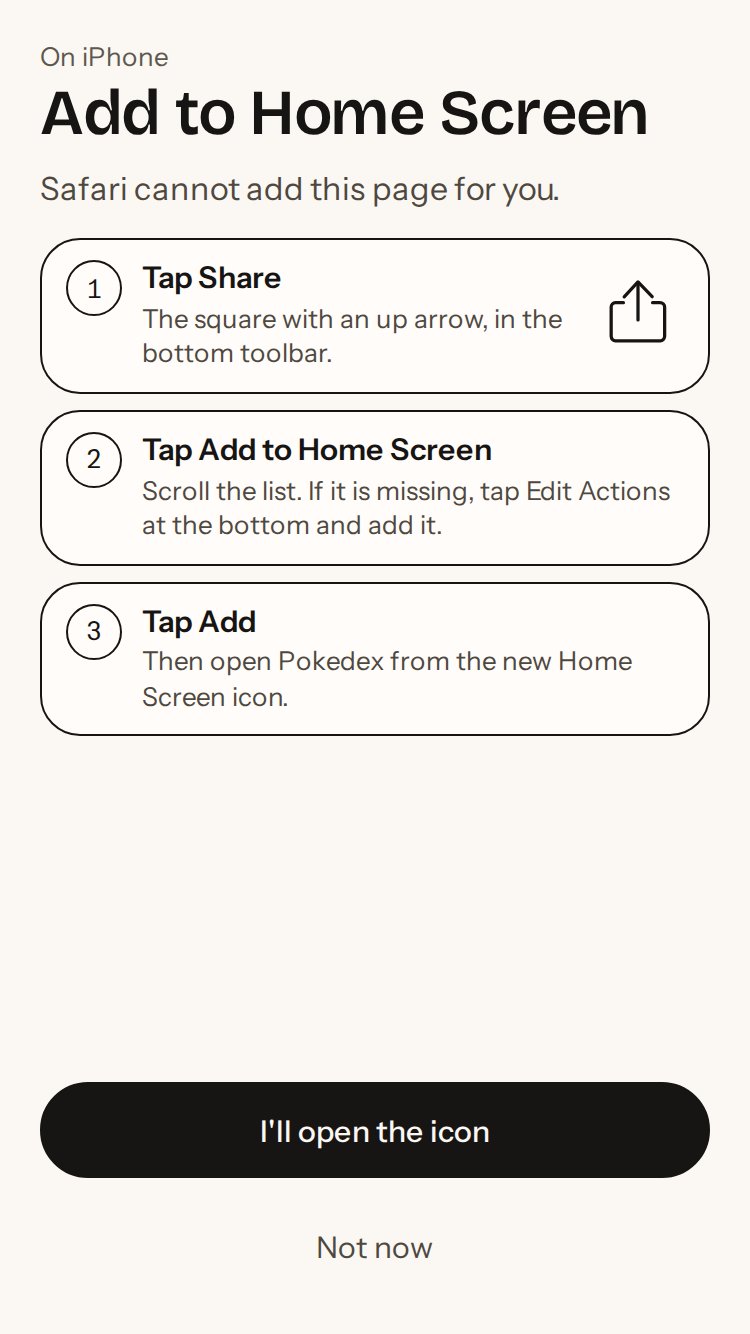
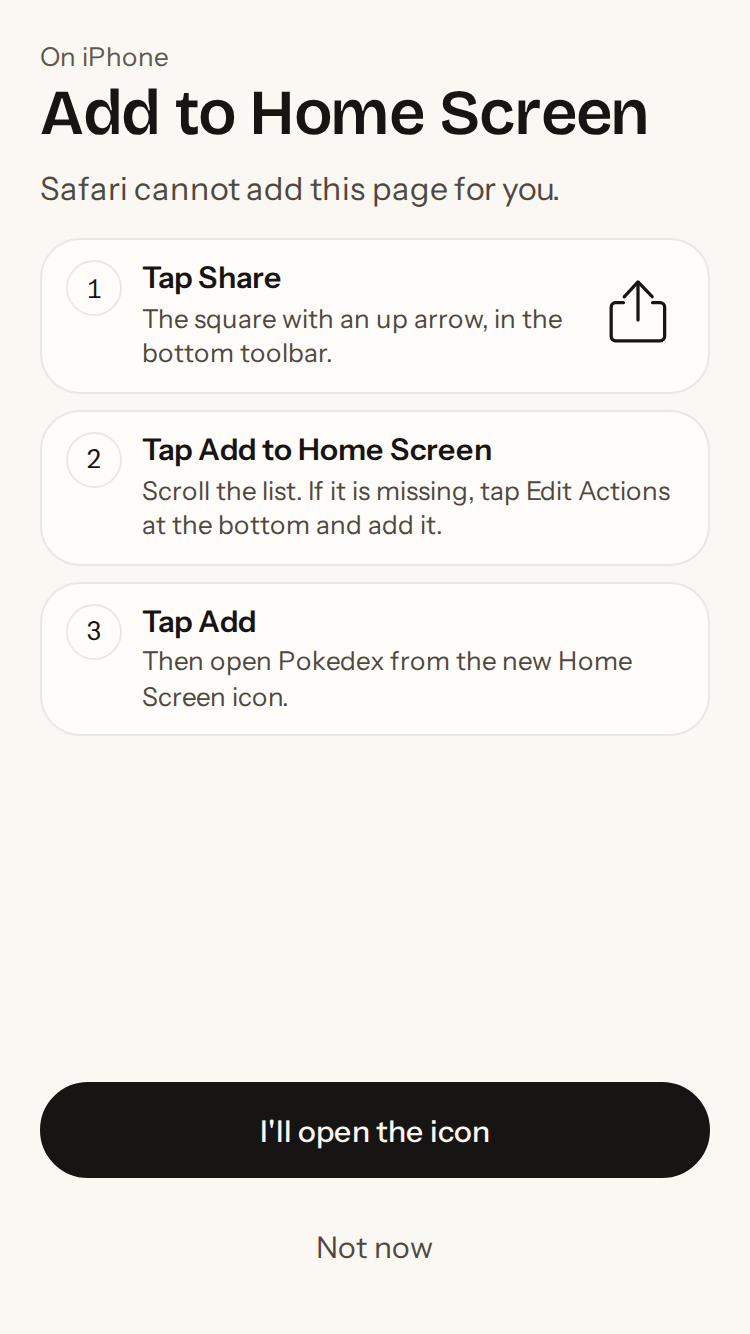
Make whole cards tappable and soften their borders. (#10)
Stretch title links across week items, to-dos, and tool cards, keep ticks and other controls above that layer, and replace the bright card edges with a hairline.

diff --git a/src/app.css b/src/app.css
@@ -5,7 +5,10 @@
 	--ink-soft: #4e483f;
 	--muted: #5e574e;
 	--fill: #efeae3;
-	--line-soft: rgba(23, 21, 19, 0.14);
+	--line: rgba(23, 21, 19, 0.09);
+	--line-soft: rgba(23, 21, 19, 0.07);
+	--hairline: 1px;
+	--highlight: none;
 	--warn: #8a5a12;
 	--ok: #1d6b42;
 	--info: #2c516e;
@@ -33,7 +36,9 @@
 	--ink-soft: #ddd4c8;
 	--muted: #c9bfb4;
 	--fill: #342f2a;
-	--line-soft: rgba(246, 241, 234, 0.18);
+	--line: rgba(255, 255, 255, 0.1);
+	--line-soft: rgba(255, 255, 255, 0.08);
+	--highlight: inset 0 1px 0 rgba(255, 255, 255, 0.05);
 	--warn: #e2b56a;
 	--ok: #8dceab;
 	--info: #9ec0dc;
@@ -75,8 +80,8 @@ body {
 }
 
 button, input, textarea { font: inherit; color: inherit; }
-button { cursor: pointer; }
-a { color: inherit; }
+button { cursor: pointer; -webkit-tap-highlight-color: transparent; }
+a { color: inherit; -webkit-tap-highlight-color: transparent; }
 p { margin: 0; }
 h1, h2, h3 {
 	font-family: var(--display);
@@ -206,11 +211,13 @@ html:has(.app-shell) body {
 .section { margin-top: 28px; }
 
 .card {
+	position: relative;
 	background: var(--card);
-	border: 1.5px solid var(--ink);
+	border: var(--hairline) solid var(--line);
 	border-radius: var(--radius-card);
 	padding: 16px;
 	overflow-wrap: break-word;
+	box-shadow: var(--highlight);
 }
 .card h2 { font-size: 16px; letter-spacing: 0; font-family: var(--font); font-weight: 600; }
 .card p + p { margin-top: 8px; }
@@ -253,8 +260,9 @@ html:has(.app-shell) body {
 	width: 44px;
 	height: 44px;
 	border-radius: 999px;
-	border: 1.5px solid var(--ink);
+	border: var(--hairline) solid var(--line);
 	background: var(--card);
+	box-shadow: var(--highlight);
 	display: grid;
 	place-items: center;
 	text-decoration: none;
@@ -270,7 +278,7 @@ html:has(.app-shell) body {
 	min-height: 48px;
 	padding: 0 18px;
 	border-radius: 24px;
-	border: 1.5px solid var(--ink);
+	border: var(--hairline) solid var(--ink);
 	background: var(--ink);
 	color: var(--bg);
 	text-decoration: none;
@@ -278,7 +286,7 @@ html:has(.app-shell) body {
 	font-size: 15px;
 	line-height: 1;
 }
-.pill.secondary { background: transparent; color: var(--ink); }
+.pill.secondary { background: transparent; color: var(--ink); border-color: var(--line); box-shadow: var(--highlight); }
 .pill.full { width: 100%; }
 .pill:disabled { opacity: 0.38; }
 .text-btn {
@@ -295,8 +303,9 @@ html:has(.app-shell) body {
 	width: 100%;
 	min-height: 48px;
 	border-radius: 14px;
-	border: 1.5px solid var(--ink);
+	border: var(--hairline) solid var(--line);
 	background: transparent;
+	box-shadow: var(--highlight);
 	padding: 12px 14px;
 	font-size: 16px;
 }
@@ -313,11 +322,13 @@ textarea.field { min-height: 96px; resize: vertical; }
 	justify-content: space-between;
 }
 .lead { font-weight: 600; font-size: 14px; }
-.todo { padding: 4px 0; border-top: 1px solid var(--line-soft); }
+.todo { position: relative; padding: 4px 0; border-top: 1px solid var(--line-soft); }
 .todo:first-child { border-top: 0; }
 .todo-copy { flex: 1; min-width: 0; padding-top: 10px; }
 .todo.done .todo-text { color: var(--ink-soft); text-decoration: line-through; text-decoration-thickness: 1px; }
 .check {
+	position: relative;
+	z-index: 1;
 	width: 44px;
 	height: 44px;
 	border: 0;
@@ -331,20 +342,21 @@ textarea.field { min-height: 96px; resize: vertical; }
 	width: 26px;
 	height: 26px;
 	border-radius: 999px;
-	border: 1.5px solid var(--ink);
+	border: var(--hairline) solid var(--line);
 	display: grid;
 	place-items: center;
 }
-.check[aria-pressed="true"] i { background: var(--ink); color: var(--bg); }
+.check[aria-pressed="true"] i { background: var(--ink); color: var(--bg); border-color: var(--ink); }
 
 .node {
-	border: 1.5px solid var(--ink);
+	border: var(--hairline) solid var(--line);
 	border-radius: 14px;
 	padding: 10px 12px;
 	background: var(--card);
+	box-shadow: var(--highlight);
 }
 .node strong { display: block; font-weight: 600; }
-.node.terminal { background: var(--ink); color: var(--bg); }
+.node.terminal { background: var(--ink); color: var(--bg); border-color: var(--ink); box-shadow: none; }
 .connector {
 	display: flex;
 	align-items: center;
@@ -368,7 +380,7 @@ textarea.field { min-height: 96px; resize: vertical; }
 .step-n {
 	width: 28px;
 	height: 28px;
-	border: 1.5px solid var(--ink);
+	border: var(--hairline) solid var(--line);
 	border-radius: 999px;
 	display: grid;
 	place-items: center;
@@ -377,7 +389,7 @@ textarea.field { min-height: 96px; resize: vertical; }
 	flex: none;
 }
 .equation { font-size: 16px; line-height: 1.4; font-weight: 500; margin-top: 8px; }
-.callout { box-shadow: inset 4px 0 0 var(--ink); }
+.callout { box-shadow: var(--highlight), inset 4px 0 0 var(--ink); }
 
 .actions { display: flex; gap: 8px; margin-top: 12px; }
 .actions .pill { flex: 1; min-height: 44px; }
@@ -396,7 +408,7 @@ textarea.field { min-height: 96px; resize: vertical; }
 	grid-template-columns: repeat(5, minmax(0, 1fr));
 	padding: 4px;
 	background: color-mix(in srgb, var(--card) 74%, transparent);
-	border: 1px solid color-mix(in srgb, var(--ink) 18%, transparent);
+	border: var(--hairline) solid var(--line);
 	border-radius: 999px;
 	box-shadow: inset 0 1px 0 color-mix(in srgb, #fff 42%, transparent);
 	backdrop-filter: blur(16px) saturate(1.35);
@@ -463,6 +475,13 @@ textarea.field { min-height: 96px; resize: vertical; }
 		transition: background-color 160ms var(--ease), color 160ms var(--ease), transform 160ms var(--ease);
 	}
 	.pill:active, .icon-btn:active { transform: scale(0.98); }
+	a.card, button.card, .card:has(> a.stretch), .shot, .todo, .plan-task {
+		transition: transform 120ms var(--ease), opacity 120ms var(--ease);
+	}
+	a.card:active, button.card:active, .card:has(> a.stretch:active), .shot:active, .todo:active, .plan-task:active {
+		transform: scale(0.985);
+		opacity: 0.94;
+	}
 }
 
 @media (prefers-reduced-motion: reduce) {
@@ -511,10 +530,11 @@ textarea.field { min-height: 96px; resize: vertical; }
 	display: grid;
 	grid-template-columns: repeat(3, minmax(0, 1fr));
 	gap: 2px;
-	border: 1.5px solid var(--ink);
+	border: var(--hairline) solid var(--line);
 	border-radius: 999px;
 	padding: 3px;
 	background: var(--card);
+	box-shadow: var(--highlight);
 }
 .theme-picker button {
 	min-height: 40px;
@@ -543,13 +563,15 @@ textarea.field { min-height: 96px; resize: vertical; }
 .day-line.past { opacity: 0.45; }
 .day-line.today {
 	background: var(--fill);
-	border: 1.5px solid var(--ink);
+	border: var(--hairline) solid var(--line);
 	border-radius: 16px;
 	padding: 10px 12px;
 	font-weight: 600;
+	box-shadow: var(--highlight);
 }
 .day.past { opacity: 0.48; }
 .day.today { background: var(--fill); }
+.shot { position: relative; min-height: 44px; }
 .day .shot + .shot {
 	margin-top: 12px;
 	padding-top: 12px;
@@ -557,6 +579,23 @@ textarea.field { min-height: 96px; resize: vertical; }
 }
 .day .shot h2 { font-size: 16px; flex: 1; min-width: 0; }
 .day .shot h2 a, .shot-link { color: inherit; text-decoration: none; }
+a.stretch::after {
+	content: "";
+	position: absolute;
+	inset: 0;
+	z-index: 0;
+}
+.shot:has(a:focus-visible),
+.todo:has(a:focus-visible),
+.card:has(> a.stretch:focus-visible) {
+	outline: 2px solid var(--ink);
+	outline-offset: 2px;
+}
+a.stretch:focus-visible { outline: none; }
+.card :is(button, input, textarea, select) {
+	position: relative;
+	z-index: 1;
+}
 .todo-copy { color: inherit; text-decoration: none; }
 .tick-row {
 	width: 100%;
@@ -570,12 +609,21 @@ textarea.field { min-height: 96px; resize: vertical; }
 .meter {
 	margin-top: 12px;
 	height: 8px;
-	border: 1.5px solid var(--ink);
+	border: var(--hairline) solid var(--line);
 	border-radius: 999px;
 	overflow: hidden;
 }
 .meter span { display: block; height: 100%; background: var(--ink); }
-.plan-task { color: inherit; text-decoration: none; font-size: 15px; line-height: 1.35; }
+.plan-task {
+	display: flex;
+	align-items: center;
+	min-height: 44px;
+	padding: 8px 0;
+	color: inherit;
+	text-decoration: none;
+	font-size: 15px;
+	line-height: 1.35;
+}
 .plan-task.done { color: var(--ink-soft); text-decoration: line-through; text-decoration-thickness: 1px; }
 .milestone { margin-top: 14px; padding-top: 12px; border-top: 1px solid var(--line-soft); }
 .prompter {
@@ -604,9 +652,10 @@ textarea.field { min-height: 96px; resize: vertical; }
 	flex: 1;
 	min-width: 220px;
 	gap: 2px;
-	border: 1.5px solid var(--ink);
+	border: var(--hairline) solid var(--line);
 	border-radius: 999px;
 	padding: 2px;
+	box-shadow: var(--highlight);
 }
 .speed button {
 	flex: 1;

diff --git a/src/lib/components/TaskDetail.svelte b/src/lib/components/TaskDetail.svelte
@@ -139,7 +139,7 @@
 					{@const href = tool.url ? safeHttpUrl(tool.url) : null}
 					<article class="card">
 						{#if href}
-							<a class="guide-title" href={href} target="_blank" rel="noopener noreferrer">{tool.name}</a>
+							<a class="stretch guide-title" href={href} target="_blank" rel="noopener noreferrer">{tool.name}</a>
 						{:else}
 							<p class="guide-title">{tool.name}</p>
 						{/if}
@@ -176,7 +176,10 @@
 							aria-pressed={item.done}
 							aria-label={item.done ? `Mark not done: ${item.text}` : `Mark done: ${item.text}`}
 							disabled={busy === item.id}
-							onclick={() => toggleCheck(item.id)}
+							onclick={(event) => {
+								event.stopPropagation();
+								toggleCheck(item.id);
+							}}
 						>
 							<i>
 								{#if item.done}

diff --git a/src/routes/week/+page.svelte b/src/routes/week/+page.svelte
@@ -51,7 +51,7 @@
 						{#each day.items as item}
 							<div class="shot">
 								<div class="week-top">
-									<h2><a href="/week/{item.id}">{item.title}</a></h2>
+									<h2><a class="stretch" href="/week/{item.id}">{item.title}</a></h2>
 									{#if item.status}
 										<span class="chip">
 											<span class="dot {tone(item.status.tone)}"></span>
@@ -74,7 +74,9 @@
 				<article class="card">
 					<p class="lead">No date</p>
 					{#each data.undated as item}
-						<p class="small" style="margin-top: 8px"><a class="shot-link" href="/week/{item.id}">{item.title}</a></p>
+						<div class="shot">
+							<p class="small"><a class="stretch shot-link" href="/week/{item.id}">{item.title}</a></p>
+						</div>
 					{/each}
 				</article>
 			{/if}

diff --git a/src/routes/you/+page.svelte b/src/routes/you/+page.svelte
@@ -41,7 +41,10 @@
 						aria-pressed={item.done}
 						aria-label={item.done ? `Mark not done: ${item.text}` : `Mark done: ${item.text}`}
 						disabled={busy === item.id}
-						onclick={() => toggle(item.id)}
+						onclick={(event) => {
+							event.stopPropagation();
+							toggle(item.id);
+						}}
 					>
 						<i>
 							{#if item.done}
@@ -51,7 +54,7 @@
 							{/if}
 						</i>
 					</button>
-					<a class="todo-copy" href="/you/{item.id}">
+					<a class="stretch todo-copy" href="/you/{item.id}">
 						<p class="todo-text">{item.text}</p>
 						{#if item.meta}<p class="small muted" style="margin-top: 4px">{item.meta}</p>{/if}
 					</a>

diff --git a/scripts/icon-cache.test.ts b/scripts/icon-cache.test.ts
@@ -38,7 +38,7 @@ test('committed touch icon is a 180px png outside the static directory', () => {
 
 test('the service worker does not cache-first icons and names the new artwork', () => {
 	const worker = fs.readFileSync('static/service-worker.js', 'utf8');
-	assert.match(worker, new RegExp(`const CACHE = 'pokedex-${ICON_REV}'`));
+	assert.match(worker, /const CACHE = 'pokedex-v5'/);
 	assert.match(worker, /const immutable = url\.pathname\.startsWith\('\/_app\/immutable\/'\);/);
 	assert.match(worker, /pathname\.startsWith\('\/icons\/'\)/);
 	assert.match(worker, /pathname === '\/apple-touch-icon\.png'/);

diff --git a/static/service-worker.js b/static/service-worker.js
@@ -1,4 +1,4 @@
-const CACHE = 'pokedex-v4';
+const CACHE = 'pokedex-v5';
 
 self.addEventListener('install', (event) => {
 	event.waitUntil(self.skipWaiting());
